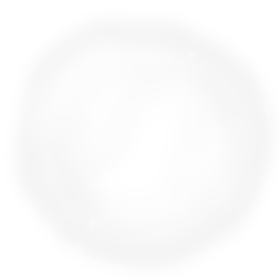
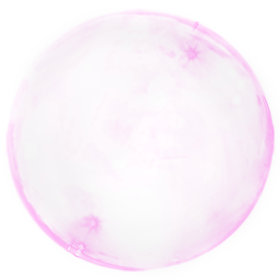
change styles

Changed region(s): [[0.6, 0.0571, 1.0, 0.9714], [0.0286, 0.4286, 0.5143, 0.9714], [0.4857, 0.0286, 0.6, 0.0571]]

diff --git a/Classes/OneBubbleView.m b/Classes/OneBubbleView.m
@@ -59,14 +59,14 @@
 				offset = [BtlUtilities randomNumber:count];
 			} else {
 				// single color
-				offset = style;
+				offset = count;
 			}
 			
       int bubbleNum = offset + 4;
 			
       [self setImageByName:[NSString stringWithFormat:@"bubble%i.png", bubbleNum]];
       self.opaque = NO;
-			self.crazyMode = [BtlUtilities randomChanceOutOf:16];      
+			self.crazyMode = [BtlUtilities randomChanceOutOf:13];      
     }
     return self;
 }
@@ -103,7 +103,7 @@
     int randomRadius = [BtlUtilities randomNumber:radius];
     int phi = [BtlUtilities randomNumber:360];
     int x = cos(phi) * randomRadius + centerX;
-    int y = sin(phi) * randomRadius * 0.33f + centerY;
+    int y = sin(phi) * randomRadius * 0.75f + centerY;
     return CGPointMake(x, y);
   }
 }
@@ -185,7 +185,7 @@
 	// Set up rotation
 	CABasicAnimation *rotationAnimation = [CABasicAnimation animationWithKeyPath:@"transform.rotation.z"];
   rotationAnimation.fromValue = [NSNumber numberWithFloat:0.0f];
-	NSNumber *radians = [NSNumber numberWithFloat:(([BtlUtilities randomNumber:40] + 5) * 
+	NSNumber *radians = [NSNumber numberWithFloat:(([BtlUtilities randomNumber:70] + 5) * 
 											 [BtlUtilities randomPolarity] * M_PI / 180.0f)];
   rotationAnimation.toValue = radians;
 	

diff --git a/Classes/BubblesViewController.m b/Classes/BubblesViewController.m
@@ -24,6 +24,9 @@
 #define HORIZ_SWIPE_DRAG_MAX 200
 #define VERT_SWIPE_DRAG_MIN 200
 
+#define BUBBLE_COUNT 6
+#define STYLE_DURATION 5.0
+
 
 @implementation BubblesViewController
 
@@ -87,7 +90,7 @@
   [[NSRunLoop currentRunLoop] addTimer: self.blowTimer
                                forMode: NSDefaultRunLoopMode];
 
-	self.styleTimer = [NSTimer scheduledTimerWithTimeInterval: 8.0
+	self.styleTimer = [NSTimer scheduledTimerWithTimeInterval: STYLE_DURATION
                                 target:	self
                               selector:	@selector(changeBubbleStyle:)
                               userInfo:	nil		// extra info
@@ -118,11 +121,12 @@
 }
 
 - (void)changeBubbleStyle:(NSTimer *)timer {
-	int max = [BtlUtilities randomNumberInRange:1 maximum:8];
+	int max = [BtlUtilities randomNumberInRange:1 maximum:BUBBLE_COUNT];
 	[[Session sharedSession] setBubbleCount:max];
 	int bs = [BtlUtilities randomNumber:max];
 	[[Session sharedSession] setBubbleStyle:bs];
-	[BtlUtilities seedRandomNumberGenerator];
+	//NSLog(@"new style/count: %i/%i", max, bs);
+	//[BtlUtilities seedRandomNumberGenerator];
 }
 
 - (void)viewDidLoad {
